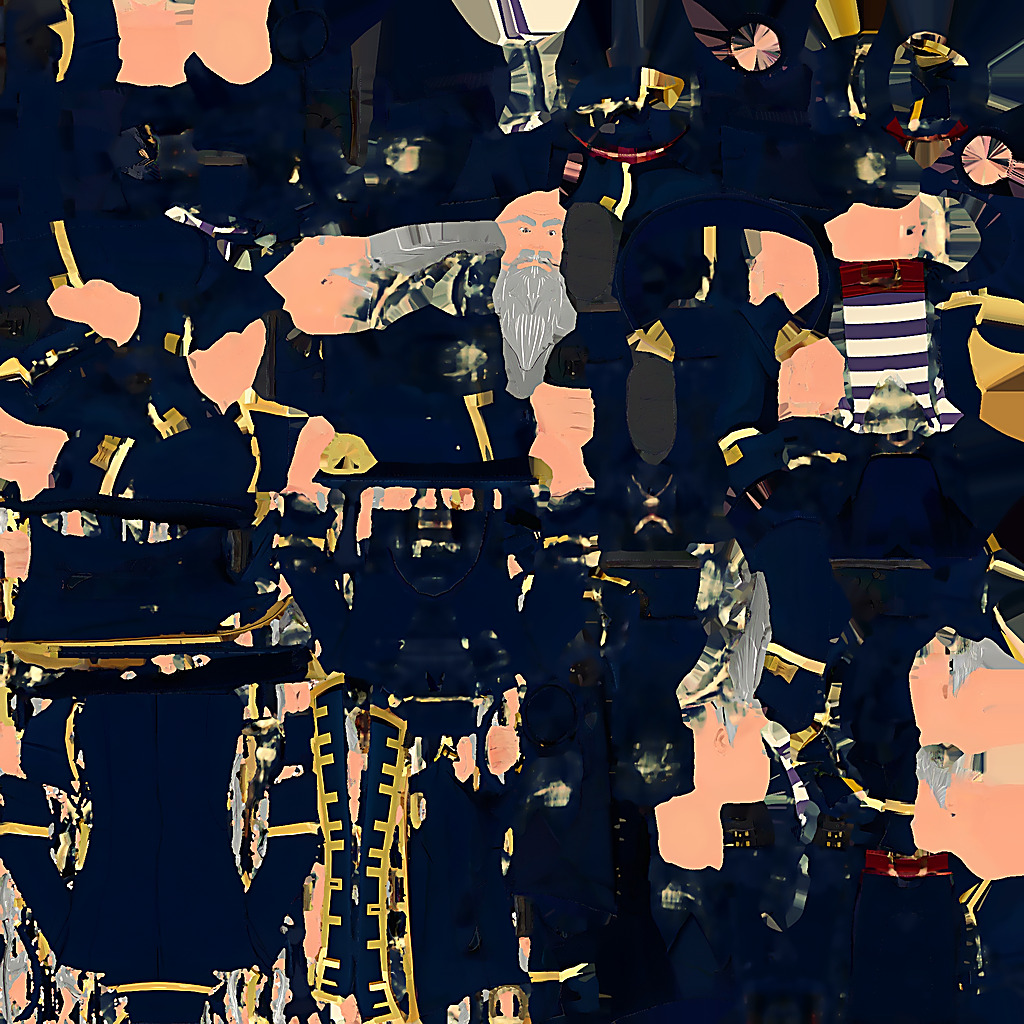
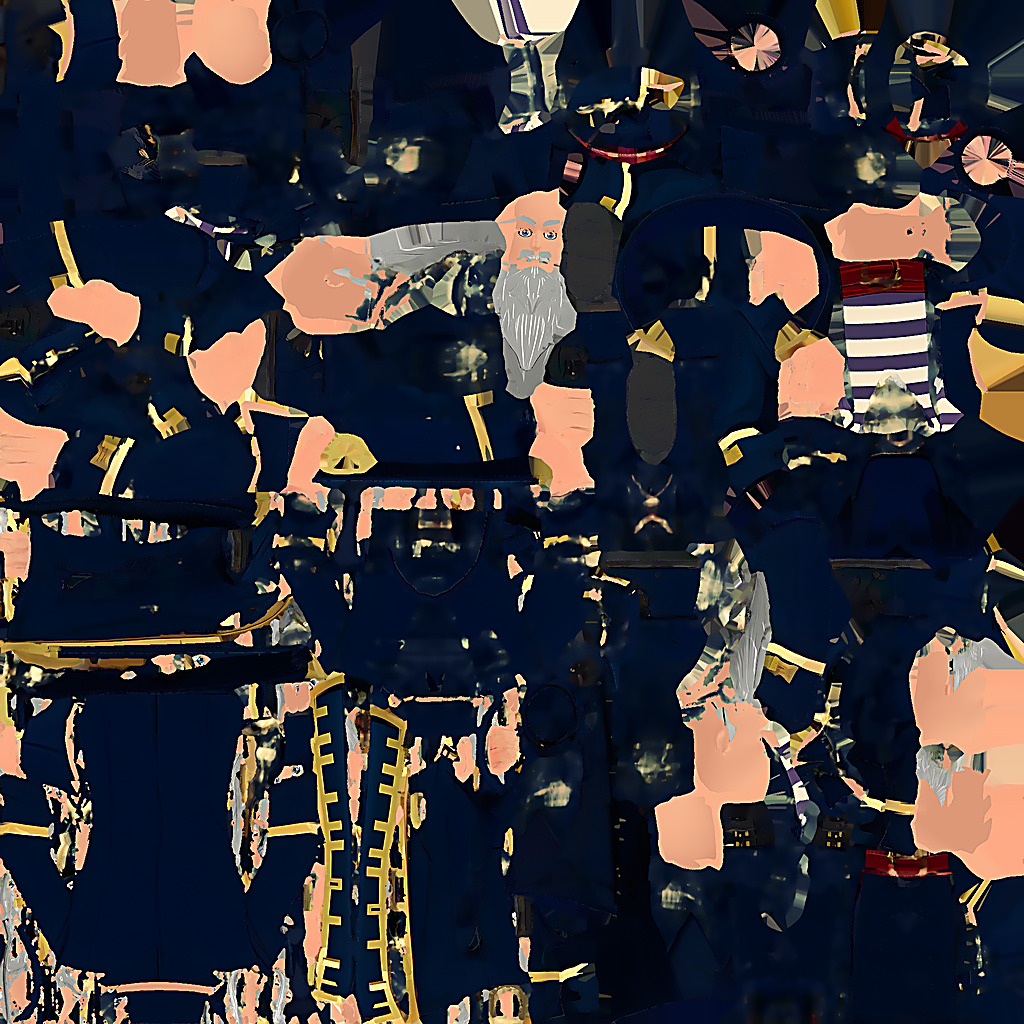
A David se le limpia la piel y se le pintan los ojos desde la geometría, en Blender
tools/blender/david_cara.py rasteriza el atlas troceado de Meshy por
triángulo, sombrea la piel de la cabeza por su normal (fuera manchas y
costuras) y pinta los ojos por construcción en el plano de la cara.

diff --git a/tools/blender/david_cara.py b/tools/blender/david_cara.py
@@ -1,0 +1,213 @@
+# Retoque de la CARA de David dentro de Blender (numpy sobre la textura, con la
+# geometría del propio modelo para saber qué téxel cae dónde). El atlas de Meshy
+# está troceado, así que no hay "rectángulo de la cara": se rasteriza cada
+# triángulo en UV y se deshace la interpolación baricéntrica por téxel
+# (la técnica de tools/face_paint.py), y con la posición y la normal 3D de
+# cada téxel se decide qué es piel, dónde están los ojos y cómo sombrear.
+#   blender --background --python tools/blender/david_cara.py -- diagnostico
+#   blender --background --python tools/blender/david_cara.py -- pintar
+import bpy, sys, os, math
+import numpy as np
+from mathutils import Vector
+
+ROOT = os.path.abspath(os.path.join(os.path.dirname(__file__), "..", ".."))
+GLB = os.path.join(ROOT, "assets", "models", "david_busto.glb")
+GEN = os.path.join(ROOT, "_gen")
+OUT = "C:/Users/KOPURI~1/AppData/Local/Temp/claude/C--Users-KOPURISTA-Desktop-GODOT-sushi/ddc3d8d7-b243-4937-ae48-84636d59f46b/scratchpad/"
+modo = sys.argv[sys.argv.index("--") + 1] if "--" in sys.argv else "diagnostico"
+
+bpy.ops.wm.read_factory_settings(use_empty=True)
+bpy.ops.import_scene.gltf(filepath=GLB)
+obj = [o for o in bpy.context.scene.objects if o.type == "MESH"][0]
+me = obj.data
+me.calc_loop_triangles()
+img = [i for i in bpy.data.images if i.size[0] > 8][0]
+W, H = img.size
+px = np.array(img.pixels[:], dtype=np.float32).reshape(H, W, 4)
+print("[cara] textura", img.name, W, H, "muestra (0,0)", px[0, 0, :3])
+
+M = obj.matrix_world
+R = M.to_3x3()
+V = np.array([M @ v.co for v in me.vertices], dtype=np.float32)
+N = np.array([(R @ v.normal).normalized() for v in me.vertices], dtype=np.float32)
+uv = me.uv_layers.active.data
+zmin, zmax = V[:, 2].min(), V[:, 2].max()
+alto = zmax - zmin
+print("[cara] z %.3f..%.3f alto %.3f  x %.3f..%.3f y %.3f..%.3f" % (zmin, zmax, alto, V[:,0].min(), V[:,0].max(), V[:,1].min(), V[:,1].max()))
+
+# --- rasterizado UV -> posición y normal por téxel ---------------------------
+POS = np.full((H, W, 3), np.nan, dtype=np.float32)
+NRM = np.zeros((H, W, 3), dtype=np.float32)
+for tri in me.loop_triangles:
+    li = tri.loops; vi = tri.vertices
+    uvs = np.array([uv[i].uv for i in li], dtype=np.float64) * [W, H]
+    x0, y0 = np.floor(uvs.min(axis=0)).astype(int); x1, y1 = np.ceil(uvs.max(axis=0)).astype(int)
+    x0 = max(x0, 0); y0 = max(y0, 0); x1 = min(x1, W - 1); y1 = min(y1, H - 1)
+    if x1 < x0 or y1 < y0:
+        continue
+    xs, ys = np.meshgrid(np.arange(x0, x1 + 1) + 0.5, np.arange(y0, y1 + 1) + 0.5)
+    (ax, ay), (bx, by), (cx, cy) = uvs
+    det = (bx - ax) * (cy - ay) - (cx - ax) * (by - ay)
+    if abs(det) < 1e-9:
+        continue
+    l1 = ((bx - xs) * (cy - ys) - (cx - xs) * (by - ys)) / det
+    l2 = ((cx - xs) * (ay - ys) - (ax - xs) * (cy - ys)) / det
+    l3 = 1.0 - l1 - l2
+    eps = -0.002
+    ins = (l1 >= eps) & (l2 >= eps) & (l3 >= eps)
+    if not ins.any():
+        continue
+    yy, xx = np.nonzero(ins)
+    b = np.stack([l1[ins], l2[ins], l3[ins]], axis=1).astype(np.float32)
+    POS[y0 + yy, x0 + xx] = b @ V[list(vi)]
+    n = b @ N[list(vi)]
+    NRM[y0 + yy, x0 + xx] = n / np.maximum(np.linalg.norm(n, axis=1, keepdims=True), 1e-6)
+cubierto = ~np.isnan(POS[..., 0])
+print("[cara] téxeles cubiertos: %.1f%%" % (100.0 * cubierto.mean()))
+
+# --- máscaras ------------------------------------------------------------------
+rgb = px[..., :3]
+r, g, b = rgb[..., 0], rgb[..., 1], rgb[..., 2]
+lum = 0.299 * r + 0.587 * g + 0.114 * b
+piel = cubierto & (r > g) & (g > b) & ((r - b) > 0.12) & (lum > 0.32) & (r > 0.45)
+cabeza = cubierto & (POS[..., 2] > zmax - 0.26 * alto)
+piel_cabeza = piel & cabeza
+frente = cabeza & (NRM[..., 1] < -0.35)   # mira a -Y, que es hacia delante
+oscuro = frente & (lum < 0.30) & ((rgb.max(axis=2) - rgb.min(axis=2)) < 0.14) & (POS[..., 2] > zmax - 0.16 * alto)
+print("[cara] piel %.2f%%  piel cabeza %.2f%%  frente %.2f%%  oscuro-frente %d téxeles" % (
+    100 * piel.mean(), 100 * piel_cabeza.mean(), 100 * frente.mean(), oscuro.sum()))
+zs = POS[piel_cabeza][:, 2]
+print("[cara] piel de la cabeza: z %.3f..%.3f (%.2f..%.2f del alto)" % (zs.min(), zs.max(), (zs.min()-zmin)/alto, (zs.max()-zmin)/alto))
+# candidatos a ojo: téxeles oscuros de la parte alta de la frente, por lado
+for lado, sel in (("izq(-x)", oscuro & (POS[..., 0] < 0)), ("der(+x)", oscuro & (POS[..., 0] > 0))):
+    if sel.sum() == 0:
+        print("[cara]", lado, "sin oscuros"); continue
+    P = POS[sel]
+    print("[cara] ojo %s: n=%d centro (%.3f, %.3f, %.3f) ancho x %.3f alto z %.3f" % (
+        lado, sel.sum(), P[:,0].mean(), P[:,1].mean(), P[:,2].mean(), P[:,0].max()-P[:,0].min(), P[:,2].max()-P[:,2].min()))
+# perfil de z de los oscuros para ver dónde caen cejas/ojos
+hz = np.histogram(POS[oscuro][:, 2], bins=12)
+for c, e in zip(hz[0], hz[1]):
+    print("[cara]   z %.3f (%.2f del alto): %d" % (e, (e - zmin) / alto, c))
+piel_med = np.median(rgb[piel_cabeza], axis=0)
+print("[cara] color mediano de la piel", piel_med)
+
+def guardar(nombre, arr_rgb):
+    im = bpy.data.images.new(nombre, W, H, alpha=True)
+    a = np.ones((H, W, 4), dtype=np.float32); a[..., :3] = arr_rgb
+    im.pixels = a.ravel().tolist()
+    im.filepath_raw = OUT + nombre + ".png"; im.file_format = "PNG"; im.save()
+    print("[cara] ->", im.filepath_raw)
+
+if modo == "diagnostico":
+    P = POS[piel_cabeza]
+    print("[cara] piel cabeza: y %.3f..%.3f  normal media" % (P[:,1].min(), P[:,1].max()), NRM[piel_cabeza].mean(axis=0))
+    i = np.argmin(P[:, 1]); print("[cara] punto más a -y de la piel (¿nariz?):", P[i])
+    i = np.argmax(P[:, 1]); print("[cara] punto más a +y de la piel (¿nuca?):", P[i])
+    print("[cara] oscuros: normal media", NRM[oscuro].mean(axis=0), "y %.3f..%.3f" % (POS[oscuro][:,1].min(), POS[oscuro][:,1].max()))
+    dbg = rgb.copy()
+    dbg[piel_cabeza] = [1, 0, 1]
+    dbg[oscuro] = [0, 1, 0]
+    guardar("david_mascaras", dbg)
+
+if modo == "pintar":
+    # --- 1) la piel de la cabeza: sombreado limpio de cartoon en vez de los
+    # brillos y costuras horneados. Se calcula por téxel con SU normal 3D, así
+    # que las costuras del atlas no existen para él: dos téxeles vecinos en la
+    # cara reciben el mismo color aunque vivan en islas distintas.
+    BASE = np.array([0.97, 0.71, 0.56], dtype=np.float32)   # sRGB, del mediano de Meshy
+    SOMBRA = np.array([0.78, 0.50, 0.40], dtype=np.float32)
+    L = np.array([0.35, -0.55, 0.75], dtype=np.float32); L /= np.linalg.norm(L)
+    ndl = np.clip((NRM * L).sum(axis=2), 0.0, 1.0)
+    k = np.clip(0.45 + 0.55 * ndl, 0.0, 1.0)[..., None]
+    piel_col = SOMBRA + (BASE - SOMBRA) * k
+    nuevo = rgb.copy()
+    nuevo[piel_cabeza] = piel_col[piel_cabeza]
+    # LOS BORDES DE LAS ISLAS: los téxeles del canto (mezclados con el relleno
+    # del atlas) no pasan el test de piel y se quedaban como rayas claras en la
+    # frente y la mejilla. La piel se DILATA 3 téxeles sobre lo que no sea
+    # gris (cejas, barba) ni oscuro, y los téxeles sin geometría (relleno) toman
+    # la media de la piel vecina ya pintada.
+    def dil(m, n):
+        for _ in range(n):
+            m = m | np.roll(m, 1, 0) | np.roll(m, -1, 0) | np.roll(m, 1, 1) | np.roll(m, -1, 1)
+        return m
+    gris = ((rgb.max(axis=2) - rgb.min(axis=2)) < 0.10) & (lum > 0.28)
+    protegido = gris | (lum < 0.22)
+    borde = dil(piel_cabeza, 3) & ~piel_cabeza & ~protegido & ~(cubierto & ~cabeza)
+    con_geo = borde & cubierto
+    nuevo[con_geo] = piel_col[con_geo]
+    pintado = piel_cabeza | con_geo
+    resto = borde & ~cubierto
+    for _ in range(4):
+        acc = np.zeros_like(nuevo); cnt = np.zeros((H, W), dtype=np.float32)
+        for dy, dx in ((1,0),(-1,0),(0,1),(0,-1),(1,1),(1,-1),(-1,1),(-1,-1)):
+            v = np.roll(np.roll(nuevo, dy, 0), dx, 1); m = np.roll(np.roll(pintado, dy, 0), dx, 1)
+            acc += v * m[..., None]; cnt += m
+        ok = resto & (cnt > 0)
+        nuevo[ok] = acc[ok] / cnt[ok][:, None]
+        pintado = pintado | ok; resto = resto & ~ok
+    print("[cara] piel repintada: %d téxeles + %d de borde" % (piel_cabeza.sum(), (pintado & ~piel_cabeza).sum()))
+    # 2) los ojos: se localizan en 3D (téxeles oscuros de la parte delantera de
+    # la cara a la altura de los ojos, uno por lado) y se pintan por distancia
+    # en el plano de la cara, no en el atlas.
+    # MEDIDO en el render contra los ojos pintados a 0.355 (cayeron en el
+    # bigote): los de verdad están 0.052 más arriba y a ±0.024 del eje.
+    zo = zmax - 0.095 * alto
+    # la caja de los ojos, en 3D: entre las cejas (z 0.405) y la nariz, en la
+    # parte delantera y a menos de 0.07 del eje (las puntas del bigote, que son
+    # oscuras, caen a 0.09 y se colaban)
+    caja_ojo = cubierto & (POS[..., 2] > zo - 0.018) & (POS[..., 2] < zo + 0.022) & (POS[..., 1] < -0.03) & (NRM[..., 1] < -0.3)
+    osc = caja_ojo & (lum < 0.38) & (np.abs(POS[..., 0]) > 0.02) & (np.abs(POS[..., 0]) < 0.07)
+    RX, RY, RIRIS, RPUP = 0.0125, 0.0080, 0.0066, 0.0033
+    SCLERA = np.array([0.95, 0.94, 0.90]); IRIS = np.array([0.36, 0.55, 0.66]); IRIS2 = np.array([0.22, 0.38, 0.50])
+    PUPILA = np.array([0.07, 0.07, 0.09]); PARPADO = np.array([0.28, 0.16, 0.11]); BRILLO = np.array([1.0, 1.0, 1.0])
+    # Los ojos van POR CONSTRUCCIÓN, simétricos: a 0.046 del eje y a la altura
+    # medida (zo), con la profundidad sacada de la propia superficie de la
+    # cara en ese punto. Detectarlos por color no valía: los de Meshy eran dos
+    # motas y el bigote y las sombras pesaban más que ellos.
+    OJO_X = 0.024
+    for signo in (-1.0, 1.0):
+        cerca = caja_ojo & (np.abs(POS[..., 0] - signo * OJO_X) < 0.012) & (np.abs(POS[..., 2] - zo) < 0.01)
+        if cerca.sum() < 5:
+            print("[cara] ojo", signo, "sin superficie (%d)" % cerca.sum()); continue
+        C = np.array([signo * OJO_X, np.median(POS[cerca][:, 1]), zo], dtype=np.float32)
+        print("[cara] ojo %+d: centro (%.3f, %.3f, %.3f), superficie de %d téxeles" % (signo, C[0], C[1], C[2], cerca.sum()))
+        zona = cubierto & (np.abs(POS[..., 1] - C[1]) < 0.04) & (NRM[..., 1] < -0.15)
+        dx = POS[..., 0] - C[0]; dz = POS[..., 2] - C[2]
+        e = np.sqrt((dx / RX) ** 2 + (dz / RY) ** 2)
+        rr = np.sqrt(dx ** 2 + dz ** 2)
+        ojo = zona & (e <= 1.0)
+        nuevo[ojo] = SCLERA
+        iris = ojo & (rr <= RIRIS)
+        # el iris se oscurece hacia el borde (dos tonos, cartoon)
+        nuevo[iris] = IRIS
+        nuevo[iris & (rr > RIRIS * 0.72)] = IRIS2
+        nuevo[ojo & (rr <= RPUP)] = PUPILA
+        # párpado: aro superior más grueso, inferior fino
+        aro = zona & (e > 0.80) & (e <= 1.08) & (dz > -RY * 0.25)
+        nuevo[aro] = PARPADO
+        aro2 = zona & (e > 0.93) & (e <= 1.06) & (dz <= -RY * 0.25)
+        nuevo[aro2] = PARPADO
+        brillo = zona & (np.sqrt((dx - signo * RIRIS * 0.35) ** 2 + (dz - RIRIS * 0.4) ** 2) <= RPUP * 0.55)
+        nuevo[brillo] = BRILLO
+    out = px.copy(); out[..., :3] = nuevo
+    img.pixels = out.ravel().tolist()
+    guardar("david_retocada", nuevo)
+    # renders de comprobación con la textura ya retocada
+    sc = bpy.context.scene
+    sc.render.engine = "BLENDER_WORKBENCH"
+    sc.display.shading.light = "STUDIO"; sc.display.shading.color_type = "TEXTURE"
+    sc.render.resolution_x = 640; sc.render.resolution_y = 640
+    sc.world = bpy.data.worlds.new("W"); sc.world.color = (0.16, 0.36, 0.52)
+    cam = bpy.data.objects.new("Cam", bpy.data.cameras.new("Cam"))
+    sc.collection.objects.link(cam); sc.camera = cam; cam.data.lens = 85
+    cx, cy = (V[:,0].min()+V[:,0].max())/2, (V[:,1].min()+V[:,1].max())/2
+    dist = alto * 0.75; zc = zmax - alto * 0.11
+    for nombre, ang in (("retoque_frente", 0.0), ("retoque_3-4", 35.0)):
+        a = math.radians(ang)
+        cam.location = (cx + dist * math.sin(a), cy - dist * math.cos(a), zc)
+        cam.rotation_euler = (math.radians(90.0), 0.0, a)
+        sc.render.filepath = OUT + "david_%s.png" % nombre
+        bpy.ops.render.render(write_still=True)
+        print("[cara] render", sc.render.filepath)

diff --git a/tools/blender/david_busto.py b/tools/blender/david_busto.py
@@ -65,6 +65,26 @@ if modo == "inspeccion":
         sc.render.filepath = OUT + "david_busto_%s.png" % nombre
         bpy.ops.render.render(write_still=True)
         print("[david] render", sc.render.filepath)
+elif modo == "cara":
+    # primer plano de la cabeza, de frente y a tres cuartos
+    sc = bpy.context.scene
+    sc.render.engine = "BLENDER_WORKBENCH"
+    sc.display.shading.light = "STUDIO"
+    sc.display.shading.color_type = "TEXTURE"
+    sc.render.resolution_x = 640; sc.render.resolution_y = 640
+    sc.world = bpy.data.worlds.new("W"); sc.world.color = (0.16, 0.36, 0.52)
+    cam = bpy.data.objects.new("Cam", bpy.data.cameras.new("Cam"))
+    sc.collection.objects.link(cam); sc.camera = cam
+    cam.data.lens = 85
+    dist = alto * 0.75
+    zc = hi[2] - alto * 0.11
+    for nombre, ang in (("cara_frente", 0.0), ("cara_3-4", 35.0)):
+        a = math.radians(ang)
+        cam.location = (cx + dist * math.sin(a), cy - dist * math.cos(a), zc)
+        cam.rotation_euler = (math.radians(90.0), 0.0, a)
+        sc.render.filepath = OUT + "david_%s.png" % nombre
+        bpy.ops.render.render(write_still=True)
+        print("[david] render", sc.render.filepath)
 else:
     for o in mallas:
         if tris(o) > PRESUPUESTO * 1.05:

diff --git a/CLAUDE.md b/CLAUDE.md
@@ -6132,6 +6132,33 @@ personajes en 3D. Está montado como PROTOTIPO en `DialogueBox` y ENCENDIDO
   `rdo_quality_loss` 1 solo sube el peso (699 → 836 KB). Y **2048 tampoco**:
   la comparativa 1024/2048 en la caja de diálogo no se distinguía, por 2,4 MB
   contra 0,7.
+- **LA CARA SE RETOCA EN BLENDER DESDE LA GEOMETRÍA** (`tools/blender/
+  david_cara.py`, pedido por el usuario: "quítale las manchas, mejora los
+  ojos"). El atlas de Meshy está TROCEADO como el de Ludo, así que no hay
+  "rectángulo de la cara": el script rasteriza cada triángulo en UV y deshace
+  la interpolación baricéntrica por téxel (la técnica de `face_paint.py`, ahora
+  con numpy dentro de Blender), y con la POSICIÓN y la NORMAL 3D de cada téxel
+  decide. Tres cosas medidas:
+  · **La piel de la cabeza se repinta con un sombreado de cartoon calculado
+    por su normal** (base/sombra × n·L): las manchas eran brillos y costuras
+    HORNEADOS por Meshy, y dos téxeles vecinos en la cara reciben el mismo
+    color aunque vivan en islas distintas del atlas. **Y la máscara se DILATA
+    3 téxeles** sobre lo que no sea gris (cejas, barba) ni oscuro, rellenando
+    el relleno del atlas con la media de la piel vecina: sin eso, los cantos
+    de las islas quedaban como RAYAS claras en la frente y la mejilla.
+  · **Los ojos van POR CONSTRUCCIÓN, no por detección**: a ±0.024 del eje y
+    a `zmax − 0.095·alto`, con la profundidad sacada de la propia superficie,
+    pintados por distancia en el plano de la cara (esclerótica, iris a dos
+    tonos, pupila, párpado y brillo). Detectarlos por color falló DOS veces:
+    los de Meshy eran dos motas y pesaban más las puntas del bigote (a ±0.09)
+    y las sombras. Y la altura se MIDIÓ pintándolos a 0.355, viendo que caían
+    en el bigote y despejando los 0.052 de diferencia con la escala del render
+    (2.228 px/u).
+  · Los renders de comprobación salen del PROPIO script (Workbench, con la
+    imagen ya retocada en memoria); la textura retocada a 2048 queda en
+    `_gen/david_busto_0.retocada.png` y de ahí sale el `.jpg` afinado a 1024.
+    El `.glb` sigue llevando la textura ORIGINAL embebida: si se borra el
+    `.jpg`, Godot la vuelve a extraer y se pierde el retoque.
 - Medidas del piloto en captura: `scratchpad/dialogo_david3d.png` y
   `dialogo_pirata.png`. Una sonda con dos `_advance()` seguidos SALTA una línea
   (el primero completa el tecleo y el segundo pasa): para capturar cada línea
